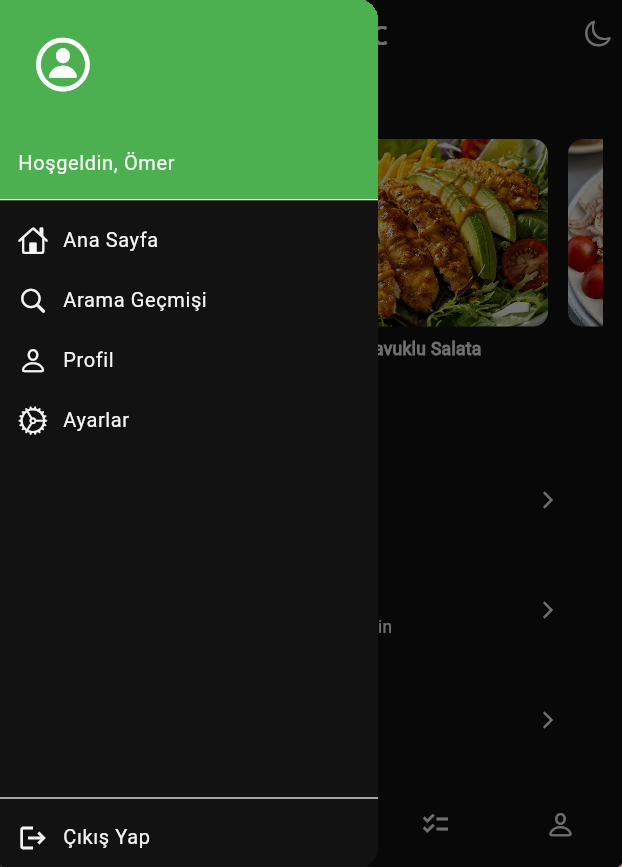
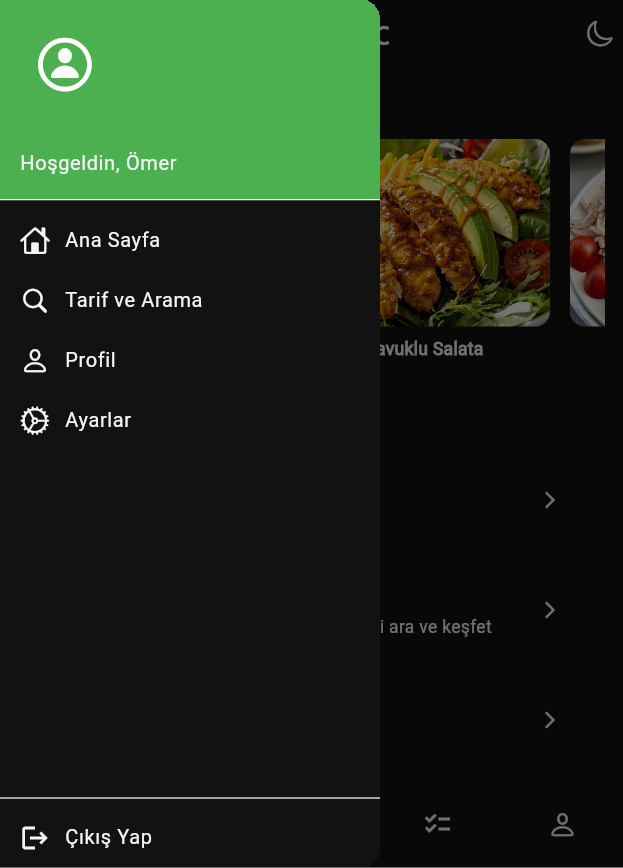
readme videos

diff --git a/lib/screens/home_screen.dart b/lib/screens/home_screen.dart
@@ -51,7 +51,7 @@ class HomeScreen extends StatelessWidget {
             ),
             ListTile(
               leading: const Icon(CupertinoIcons.search),
-              title: const Text('Arama Geçmişi'),
+              title: const Text('Tarif ve Arama'),
               onTap: () => context.push("/search"),
             ),
             ListTile(
@@ -130,8 +130,9 @@ class HomeScreen extends StatelessWidget {
                     const SizedBox(height: 16),
                     SuggestedActionCard(
                       icon: Icons.history,
-                      title: "Son Aramalar",
-                      subtitle: "Geçmiş aramalarınızı görüntüleyin",
+                      title: "Tarif ve Arama",
+                      subtitle:
+                          "Binlerce tarif arasından dilediğini ara ve keşfet",
                       onTap: () => context.push("/search"),
                     ),
                     const SizedBox(height: 16),

diff --git a/README.md b/README.md
@@ -143,6 +143,9 @@ lib/
 ![Settings Screen ](assets/images/screenshots/Light%20Theme/settingsscreen.png)
 
 
+[![Watch the video](https://img.youtube.com/vi/kZ9Lh1L6m3o/0.jpg)](https://www.youtube.com/watch?v=kZ9Lh1L6m3o)
+
+
 ## Dark Theme 
 ![Home Screen ](assets/images/screenshots/Dark%20Theme/homescreen.dark.png)
 ![Home Screen ](assets/images/screenshots/Dark%20Theme/homescreen2.dark.png)
@@ -157,10 +160,8 @@ lib/
 ![Settings Screen ](assets/images/screenshots/Dark%20Theme/settingsscreen.dark.png)
 
 
+[![Watch the video](https://img.youtube.com/vi/c_Y9qxqHxJ0/0.jpg)](https://www.youtube.com/watch?v=c_Y9qxqHxJ0)
 
-
-
-  
 
 ## Projeye Katkı Sağlama
 
